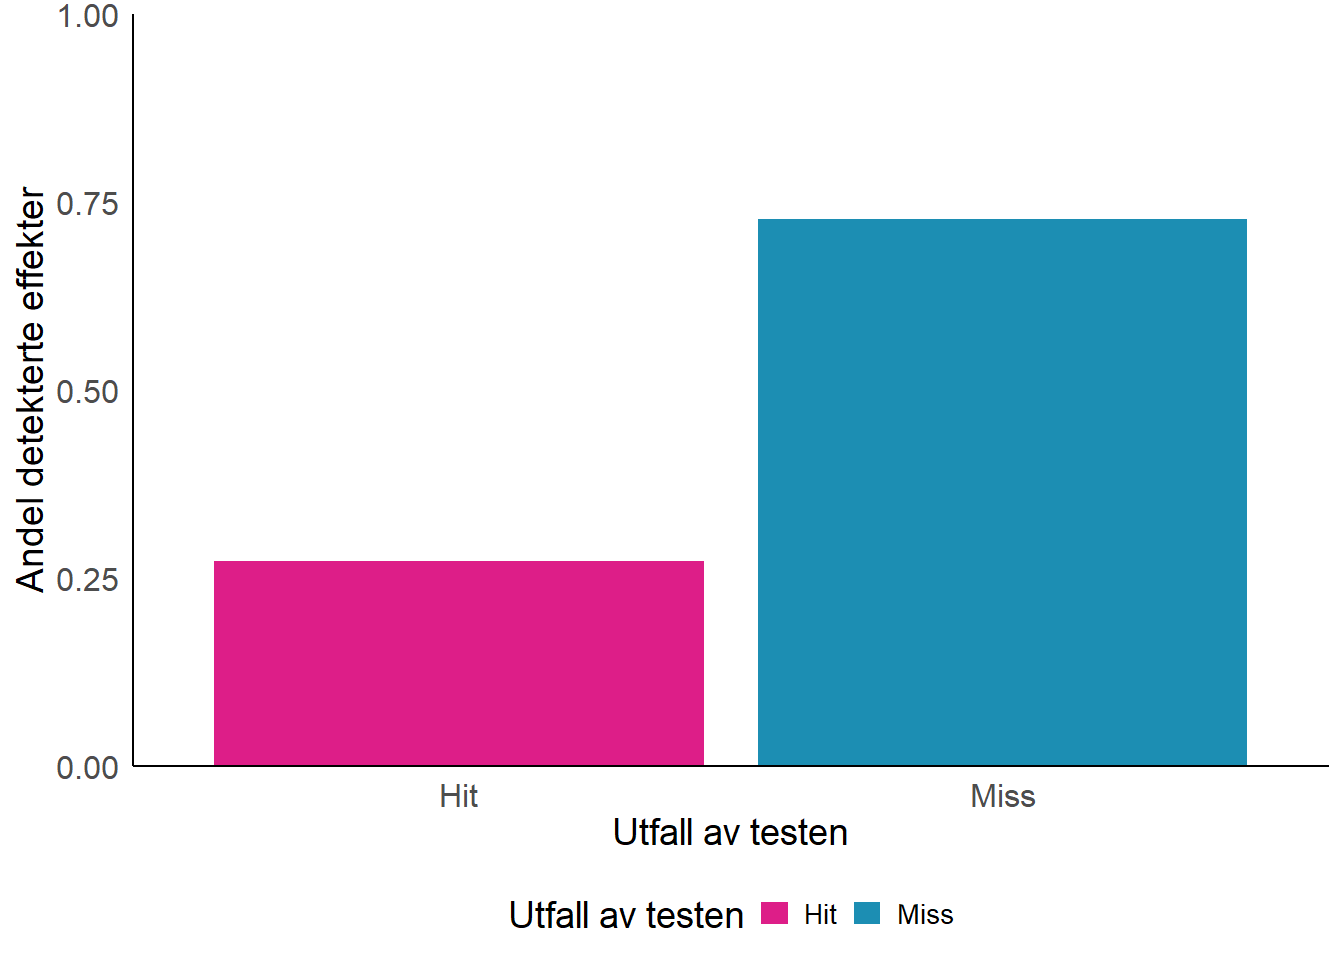
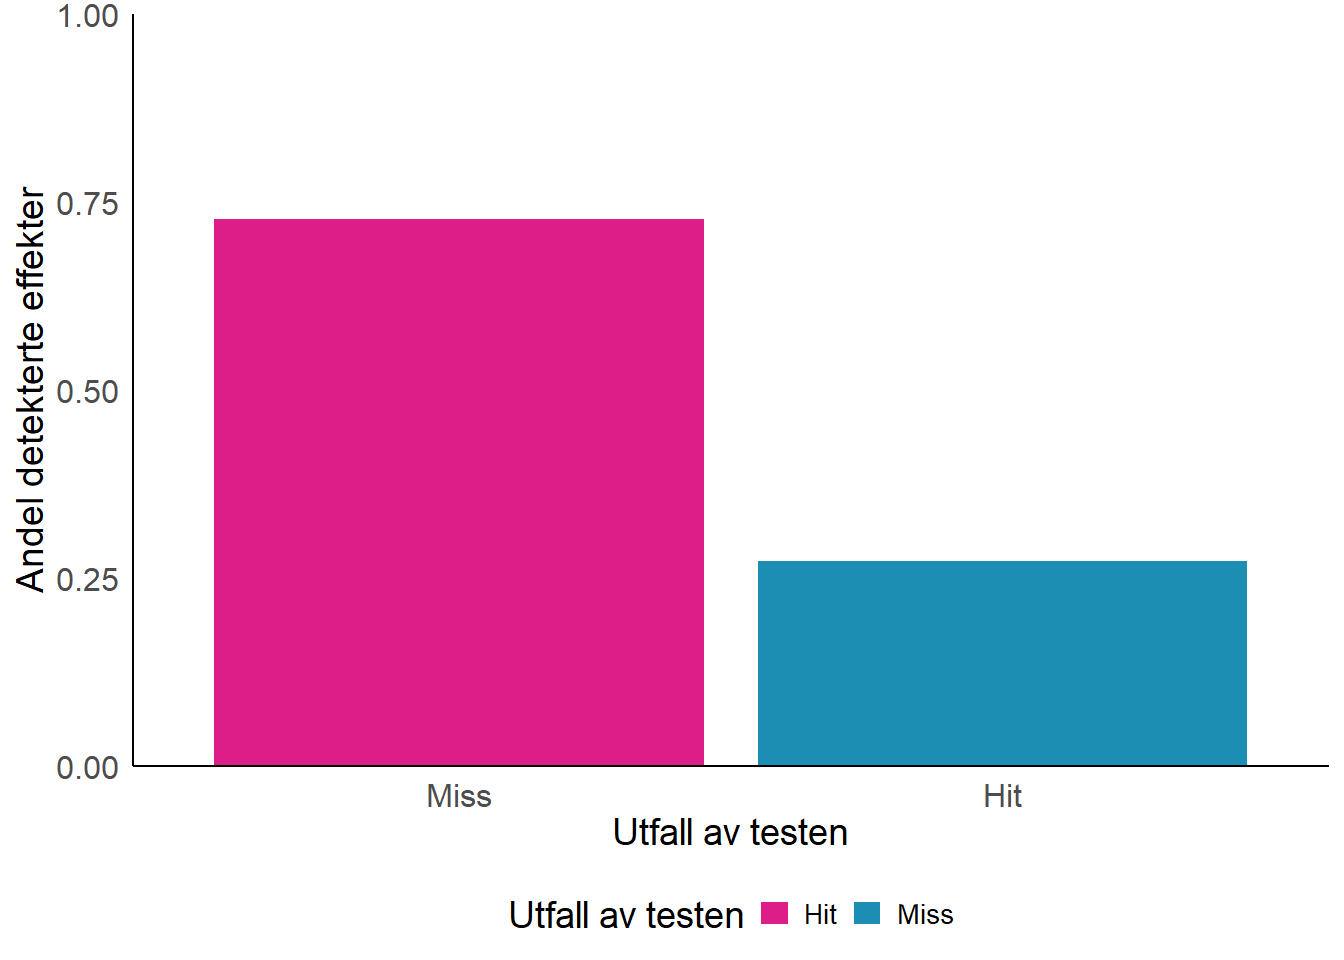
render site

diff --git a/docs/posts/2026-01-05-sim.html b/docs/posts/2026-01-05-sim.html
@@ -7,7 +7,7 @@
 <meta name="viewport" content="width=device-width, initial-scale=1.0, user-scalable=yes">
 
 
-<title>Når ‘ingen effekt’ egentlig betyr ‘vi har ikke peiling’ – Christian Magelssen, PhD</title>
+<title>Når ‘ingen effekt’ egentlig betyr ‘vi hadde ikke nok data’ – Christian Magelssen, PhD</title>
 <style>
 code{white-space: pre-wrap;}
 span.smallcaps{font-variant: small-caps;}
@@ -4932,7 +4932,7 @@ window.Quarto = {
 
 <header id="title-block-header" class="quarto-title-block default">
 <div class="quarto-title">
-<h1 class="title">Når ‘ingen effekt’ egentlig betyr ‘vi har ikke peiling’</h1>
+<h1 class="title">Når ‘ingen effekt’ egentlig betyr ‘vi hadde ikke nok data’</h1>
 </div>
 
 
@@ -4949,7 +4949,7 @@ window.Quarto = {
 </header>
 
 
-<p>De siste årene har vi sett en rekke forskningsstudier med konklusjoner som “ingen effekt av X på Y” eller “A gir samme effekt som B på Y”. Et ferskt eksempel er Norges idrettshøgskole, som slår fast at “leik gir samme effekt som intervall”. Slike konklusjoner kan virke underlige og står ofte i klar kontrast til treneres erfaringer. Men det er ikke poenget her. Poenget er at slike konklusjoner ikke er logisk gyldige uten et eksperimentelt design som faktisk tillater dem, noe de færreste studier har. Likevel presenteres resultatene ofte som skråsikre. Det er problematisk, ikke bare fordi konklusjonene kan være metodisk feil, men fordi de i praksis kan føre til at vi slutter med tiltak som faktisk har effekt.</p>
+<p>De siste årene har vi sett en rekke forskningsstudier med konklusjoner som «ingen effekt av X på Y» eller «A gir samme effekt som B på Y». Et ferskt eksempel er nylig publiserte studier som konkluderer med at ulike treningsformer gir samme effekt. Slike konklusjoner kan virke underlige og står ofte i klar kontrast til treneres erfaringer. Men det er ikke poenget her. Poenget er at slike konklusjoner ikke er logisk gyldige uten et eksperimentelt design som faktisk tillater dem, noe de færreste studier har. Likevel presenteres resultatene ofte som skråsikre. Det er problematisk, ikke bare fordi konklusjonene kan være metodisk feil, men fordi de i praksis kan føre til at vi slutter med tiltak som faktisk har effekt.</p>
 <p>I dette blogginnlegget viser jeg hvorfor vi ikke kan trekke slike konklusjoner ved hjelp av Monte Carlo-simuleringer. I en Monte Carlo-simulering bestemmer vi oss som forskere på forhånd for at en effekt faktisk eksisterer i populasjonen. Spørsmålet vi deretter stiller, er ikke om effekten finnes, men hvor ofte en vanlig statistisk analyse klarer å påvise den. For å undersøke dette går vi frem på følgende måte: Vi lager kunstige datasett som ligner på det vi realistisk kunne observert i en faktisk studie. Deretter analyserer vi hvert datasett på samme måte som i ekte forskning, og registrerer om testen påviser effekten eller ikke. Ved å gjenta denne prosessen mange ganger kan vi telle hvor ofte vi treffer, og hvor ofte vi bommer, selv om vi vet at effekten faktisk finnes. Denne fremgangsmåten gjør det mulig å skille tydelig mellom to spørsmål som ofte blandes sammen i forskning: om en effekt eksisterer, og om vi har tilstrekkelig statistisk styrke til å oppdage den.</p>
 <p>For å gi leseren et god innsikt og overblikk går jeg frem i korte, enkle steg. Først beskriver jeg et realistisk studieoppsett fra styrketrening og spesifiserer hvilken effekt det faktisk er interessant å studere. Deretter simulerer jeg én enkelt studie for å vise hvordan dataene kan se ut i praksis. Jeg bygger så en statistisk modell for å teste om effekten kan påvises. Poenget er imidlertid ikke resultatet fra denne ene testen i denne ene studien. Hovedpoenget kommer først når vi gjentar den samme studien mange ganger. Ved å simulere identiske studier under de samme forutsetningene, men med nye datasett hver gang, kan vi undersøke hvor ofte analysen faktisk klarer å påvise effekten. Til slutt varierer jeg antall deltakere per gruppe for å vise hvordan utvalgsstørrelse alene påvirker sannsynligheten for å trekke riktige konklusjoner, og hvorfor dette er et grunnleggende problem i store deler av idrettsforskningen.</p>
 <p>Det er verdt å merke seg at dette er den lange veien til poenget. I utgangspunktet burde det være mulig å ta en langt kortere vei. Den korte forklaringen er at den klassiske nullhypotesetesten ikke tester om to grupper er like. <strong>Den tester sannsynligheten for å observere dataene gitt at nullhypotesen om ingen effekt er sann. Dersom observasjonene avviker tilstrekkelig fra det som forventes under nullhypotesen, sier vi at resultatet er statistisk signifikant. Men dersom resultatet ikke er statistisk signifikant, betyr det ikke at gruppene er like</strong> – selv om mange forskere ser ut til å tolke det slik.</p>
@@ -5463,19 +5463,22 @@ F-statistic: 16.03 on 2 and 17 DF,  p-value: 0.0001223</code></pre>
 <span id="cb8-5"><a href="#cb8-5" aria-hidden="true" tabindex="-1"></a>  <span class="fu">summarise</span>(<span class="at">prop =</span> (<span class="fu">n</span>() <span class="sc">/</span> trials )) <span class="sc">|&gt;</span></span>
 <span id="cb8-6"><a href="#cb8-6" aria-hidden="true" tabindex="-1"></a>  <span class="fu">ungroup</span>()</span>
 <span id="cb8-7"><a href="#cb8-7" aria-hidden="true" tabindex="-1"></a></span>
-<span id="cb8-8"><a href="#cb8-8" aria-hidden="true" tabindex="-1"></a></span>
-<span id="cb8-9"><a href="#cb8-9" aria-hidden="true" tabindex="-1"></a><span class="fu">ggplot</span>(sim_10_f_count, <span class="fu">aes</span>(<span class="at">x=</span>detect, <span class="at">y=</span>prop, <span class="at">fill=</span>detect)) <span class="sc">+</span></span>
-<span id="cb8-10"><a href="#cb8-10" aria-hidden="true" tabindex="-1"></a>  <span class="fu">geom_col</span>() <span class="sc">+</span></span>
-<span id="cb8-11"><a href="#cb8-11" aria-hidden="true" tabindex="-1"></a>  <span class="fu">scale_fill_manual</span>(<span class="at">values =</span> colorPalette, <span class="at">name =</span> <span class="st">&quot;Utfall av testen&quot;</span>, <span class="at">labels=</span><span class="fu">c</span>(<span class="st">&#39;Hit&#39;</span>, <span class="st">&#39;Miss&#39;</span>)) <span class="sc">+</span></span>
-<span id="cb8-12"><a href="#cb8-12" aria-hidden="true" tabindex="-1"></a>   <span class="fu">scale_x_discrete</span>(<span class="at">labels =</span> <span class="fu">c</span>(<span class="at">hit =</span> <span class="st">&quot;Hit&quot;</span>, <span class="at">miss =</span> <span class="st">&quot;Miss&quot;</span>)) <span class="sc">+</span></span>
-<span id="cb8-13"><a href="#cb8-13" aria-hidden="true" tabindex="-1"></a>  <span class="fu">scale_y_continuous</span>(<span class="at">limits=</span><span class="fu">c</span>(<span class="dv">0</span>, <span class="dv">1</span>), <span class="at">expand =</span> <span class="fu">expansion</span>(<span class="at">mult =</span> <span class="fu">c</span>(<span class="dv">0</span>, <span class="dv">0</span>))) <span class="sc">+</span></span>
-<span id="cb8-14"><a href="#cb8-14" aria-hidden="true" tabindex="-1"></a>  <span class="fu">labs</span>(<span class="at">x=</span><span class="st">&quot;Utfall av testen&quot;</span>, <span class="at">y=</span> <span class="st">&quot;Andel detekterte effekter&quot;</span>) <span class="sc">+</span></span>
-<span id="cb8-15"><a href="#cb8-15" aria-hidden="true" tabindex="-1"></a>  theme_sim</span></code><button title="Copy to Clipboard" class="code-copy-button"><i class="bi"></i></button></pre></div>
+<span id="cb8-8"><a href="#cb8-8" aria-hidden="true" tabindex="-1"></a>sim_10_f_count<span class="sc">$</span>detect <span class="ot">&lt;-</span> <span class="fu">factor</span>(sim_10_f_count<span class="sc">$</span>detect,</span>
+<span id="cb8-9"><a href="#cb8-9" aria-hidden="true" tabindex="-1"></a>                           <span class="at">levels =</span> <span class="fu">c</span>(<span class="st">&quot;miss&quot;</span>, <span class="st">&quot;hit&quot;</span>))</span>
+<span id="cb8-10"><a href="#cb8-10" aria-hidden="true" tabindex="-1"></a></span>
+<span id="cb8-11"><a href="#cb8-11" aria-hidden="true" tabindex="-1"></a></span>
+<span id="cb8-12"><a href="#cb8-12" aria-hidden="true" tabindex="-1"></a><span class="fu">ggplot</span>(sim_10_f_count, <span class="fu">aes</span>(<span class="at">x=</span>detect, <span class="at">y=</span>prop, <span class="at">fill=</span>detect)) <span class="sc">+</span></span>
+<span id="cb8-13"><a href="#cb8-13" aria-hidden="true" tabindex="-1"></a>  <span class="fu">geom_col</span>() <span class="sc">+</span></span>
+<span id="cb8-14"><a href="#cb8-14" aria-hidden="true" tabindex="-1"></a>  <span class="fu">scale_fill_manual</span>(<span class="at">values =</span> colorPalette, <span class="at">name =</span> <span class="st">&quot;Utfall av testen&quot;</span>, <span class="at">labels=</span><span class="fu">c</span>(<span class="st">&#39;Hit&#39;</span>, <span class="st">&#39;Miss&#39;</span>)) <span class="sc">+</span></span>
+<span id="cb8-15"><a href="#cb8-15" aria-hidden="true" tabindex="-1"></a>   <span class="fu">scale_x_discrete</span>(<span class="at">labels =</span> <span class="fu">c</span>(<span class="at">hit =</span> <span class="st">&quot;Hit&quot;</span>, <span class="at">miss =</span> <span class="st">&quot;Miss&quot;</span>)) <span class="sc">+</span></span>
+<span id="cb8-16"><a href="#cb8-16" aria-hidden="true" tabindex="-1"></a>  <span class="fu">scale_y_continuous</span>(<span class="at">limits=</span><span class="fu">c</span>(<span class="dv">0</span>, <span class="dv">1</span>), <span class="at">expand =</span> <span class="fu">expansion</span>(<span class="at">mult =</span> <span class="fu">c</span>(<span class="dv">0</span>, <span class="dv">0</span>))) <span class="sc">+</span></span>
+<span id="cb8-17"><a href="#cb8-17" aria-hidden="true" tabindex="-1"></a>  <span class="fu">labs</span>(<span class="at">x=</span><span class="st">&quot;Utfall av testen&quot;</span>, <span class="at">y=</span> <span class="st">&quot;Andel detekterte effekter&quot;</span>) <span class="sc">+</span></span>
+<span id="cb8-18"><a href="#cb8-18" aria-hidden="true" tabindex="-1"></a>  theme_sim</span></code><button title="Copy to Clipboard" class="code-copy-button"><i class="bi"></i></button></pre></div>
 <div class="cell-output-display">
 <div id="fig-hit-miss-n10" class="quarto-float quarto-figure quarto-figure-center anchored">
 <figure class="quarto-float quarto-float-fig figure">
 <div aria-describedby="fig-hit-miss-n10-caption-0ceaefa1-69ba-4598-a22c-09a6ac19f8ca">
[2 lines of base64/hex data omitted]
 </div>
 <figcaption class="quarto-float-caption-bottom quarto-float-caption quarto-float-fig" id="fig-hit-miss-n10-caption-0ceaefa1-69ba-4598-a22c-09a6ac19f8ca">
 Figure 1: Andel studier der effekten påvises (hit) og ikke påvises (miss), basert på 1000 simulerte studier med 10 deltakere per gruppe

diff --git a/docs/index.html b/docs/index.html
@@ -201,7 +201,7 @@ window.Quarto = {
 
 <div class="quarto-listing quarto-listing-container-default" id="listing-listing">
 <div class="list quarto-listing-default">
-<div class="quarto-post image-right" data-index="0" data-listing-file-modified-sort="1770362880254" data-listing-reading-time-sort="19" data-listing-word-count-sort="3650">
+<div class="quarto-post image-right" data-index="0" data-listing-file-modified-sort="1770640217532" data-listing-reading-time-sort="19" data-listing-word-count-sort="3682">
 <div class="thumbnail">
 <p><a href="./posts/2026-01-05-sim.html" class="no-external"></a></p><a href="./posts/2026-01-05-sim.html" class="no-external">
 <p><img loading="lazy" src="./posts/1.png" class="thumbnail-image"></p>
@@ -209,13 +209,13 @@ window.Quarto = {
 </div>
 <div class="body">
 <h3 class="no-anchor listing-title">
-<a href="./posts/2026-01-05-sim.html" class="no-external">Når ‘ingen effekt’ egentlig betyr ‘vi har ikke peiling’</a>
+<a href="./posts/2026-01-05-sim.html" class="no-external">Når ‘ingen effekt’ egentlig betyr ‘vi hadde ikke nok data’</a>
 </h3>
 <div class="listing-subtitle">
 <a href="./posts/2026-01-05-sim.html" class="no-external"></a>
 </div>
 <div class="listing-description">
-<a href="./posts/2026-01-05-sim.html" class="no-external">De siste årene har vi sett en rekke forskningsstudier med konklusjoner som “ingen effekt av X på Y” eller “A gir samme effekt som B på Y”. Et ferskt eksempel er Norges…</a>
+<a href="./posts/2026-01-05-sim.html" class="no-external">De siste årene har vi sett en rekke forskningsstudier med konklusjoner som «ingen effekt av X på Y» eller «A gir samme effekt som B på Y». Et ferskt eksempel er nylig…</a>
 </div>
 </div>
 <div class="metadata">
